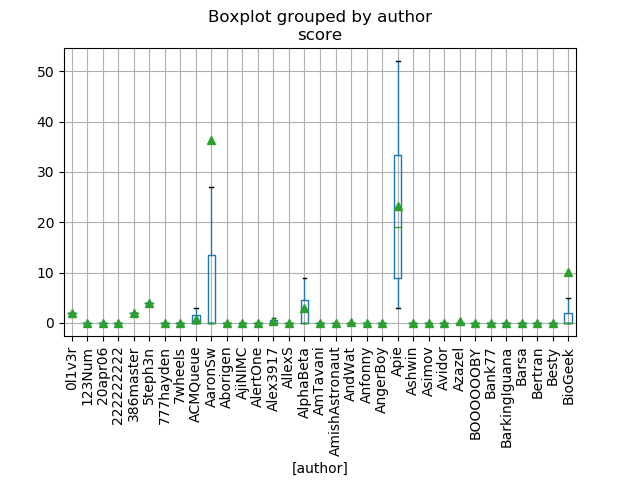
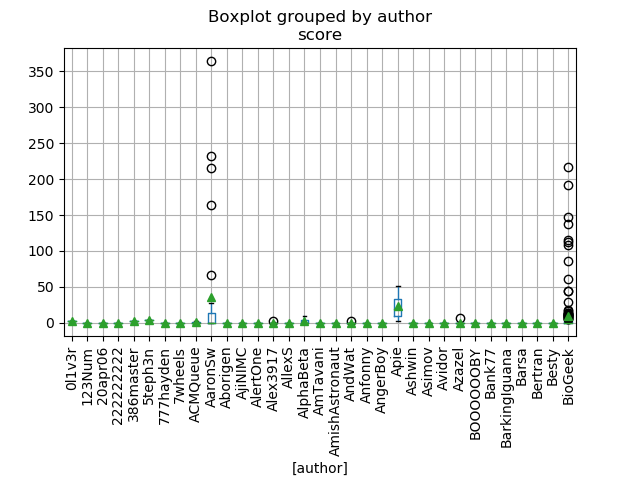
new figs

diff --git a/data_exploration.py b/data_exploration.py
@@ -43,20 +43,20 @@ df_train_trans_pd = df_train_trans.toPandas()
 """ Scores grouped by author/ domain"""
 import matplotlib.pyplot as plt
 plt.figure(figsize=[30,40])
-train_set_pd[['author', 'score']].sort_values(by='author')[0:300].boxplot(by='author', showfliers=False, showmeans=True) 
+train_set_pd[['author', 'score']].sort_values(by='author')[0:300].boxplot(by='author', showmeans=True) 
 plt.xticks(rotation=90) 
 plt.gcf().subplots_adjust(bottom=0.3)
 plt.savefig('./figures/boxplot_score_groupedby_author')
 
 plt.figure(figsize=[40, 80]) 
-train_set_pd[['domain', 'score']].sort_values(by='domain')[0:100].boxplot(by='domain', showfliers=False, showmeans=True) 
+train_set_pd[['domain', 'score']].sort_values(by='domain')[0:100].boxplot(by='domain', showmeans=True) 
 plt.gcf().subplots_adjust(bottom=0.4) 
 plt.xticks(rotation=90) 
 plt.xlabel('domains', fontsize=5)
 plt.savefig('./figures/boxplot_score_groupedby_domain') 
 
 plt.figure(figsize=[40, 40]) 
-train_set_pd[['subreddit', 'score']].sort_values(by='subreddit')[0:7000].boxplot(by='subreddit', showfliers=False, showmeans=True) 
+train_set_pd[['subreddit', 'score']].sort_values(by='subreddit')[0:7000].boxplot(by='subreddit', showmeans=True) 
 plt.gcf().subplots_adjust(bottom=0.4) 
 plt.xlabel('subreddit', fontsize=9)
 plt.xticks(rotation=90) 
@@ -75,7 +75,7 @@ plt.xticks(rotation=90)
 plt.savefig('./figures/boxplot_score_groupedby_dayofweek') 
 
 plt.figure(figsize=[40, 40]) 
-df_train_trans_pd[['hour', 'score']].boxplot(by='hour', showfliers=False, showmeans=True) 
+df_train_trans_pd[['hour', 'score']].boxplot(by='hour', showmeans=True) 
 plt.gcf().subplots_adjust(bottom=0.4) 
 plt.xticks(rotation=90) 
 plt.xlabel('hour', fontsize=8)

diff --git a/main.py b/main.py
@@ -10,8 +10,6 @@ from pyspark.sql import SparkSession
 from pyspark.sql.functions import *
 import numpy as np
 
-sc = SparkContext()
-
 def random_forest_regressor(result_trainpca, result_testpca):
     rf = RandomForestRegressor(featuresCol='pcaFeatures') # featuresCol="indexedFeatures",numTrees=2, maxDepth=2, seed=42
 
